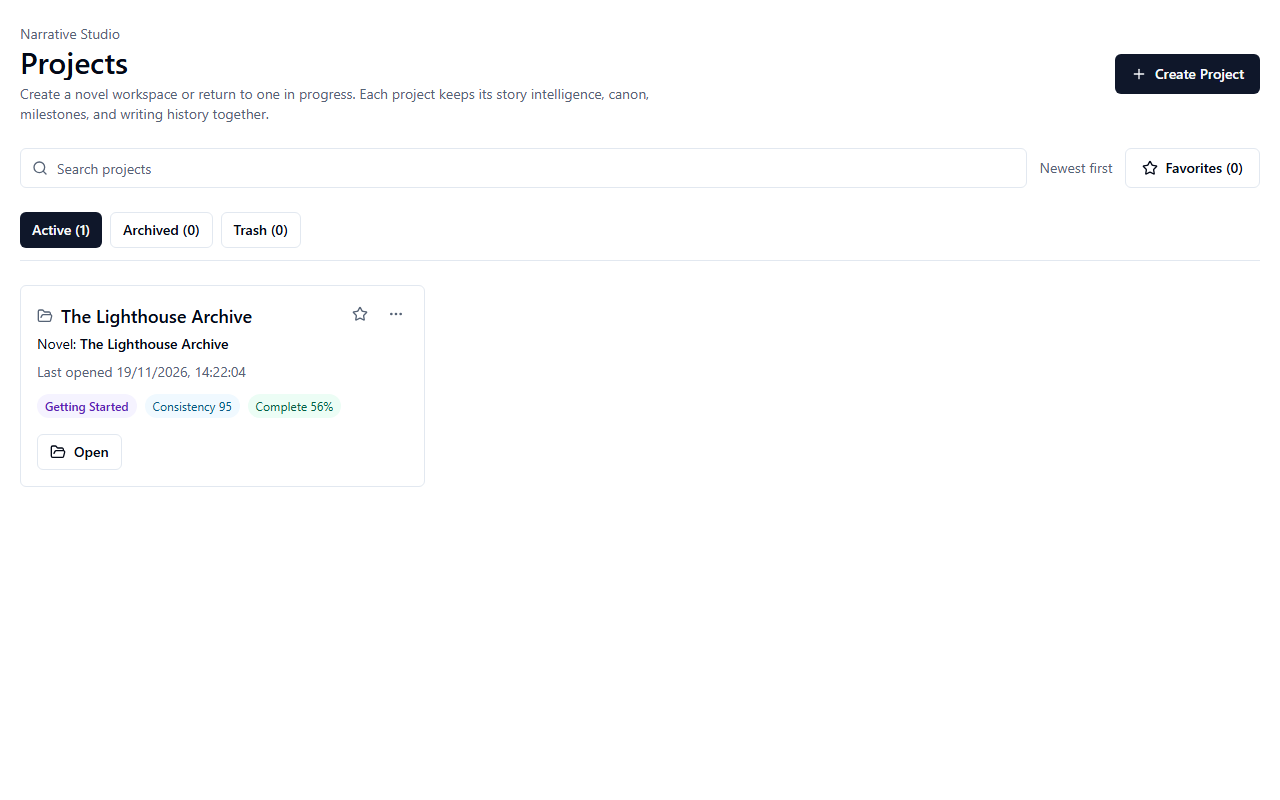
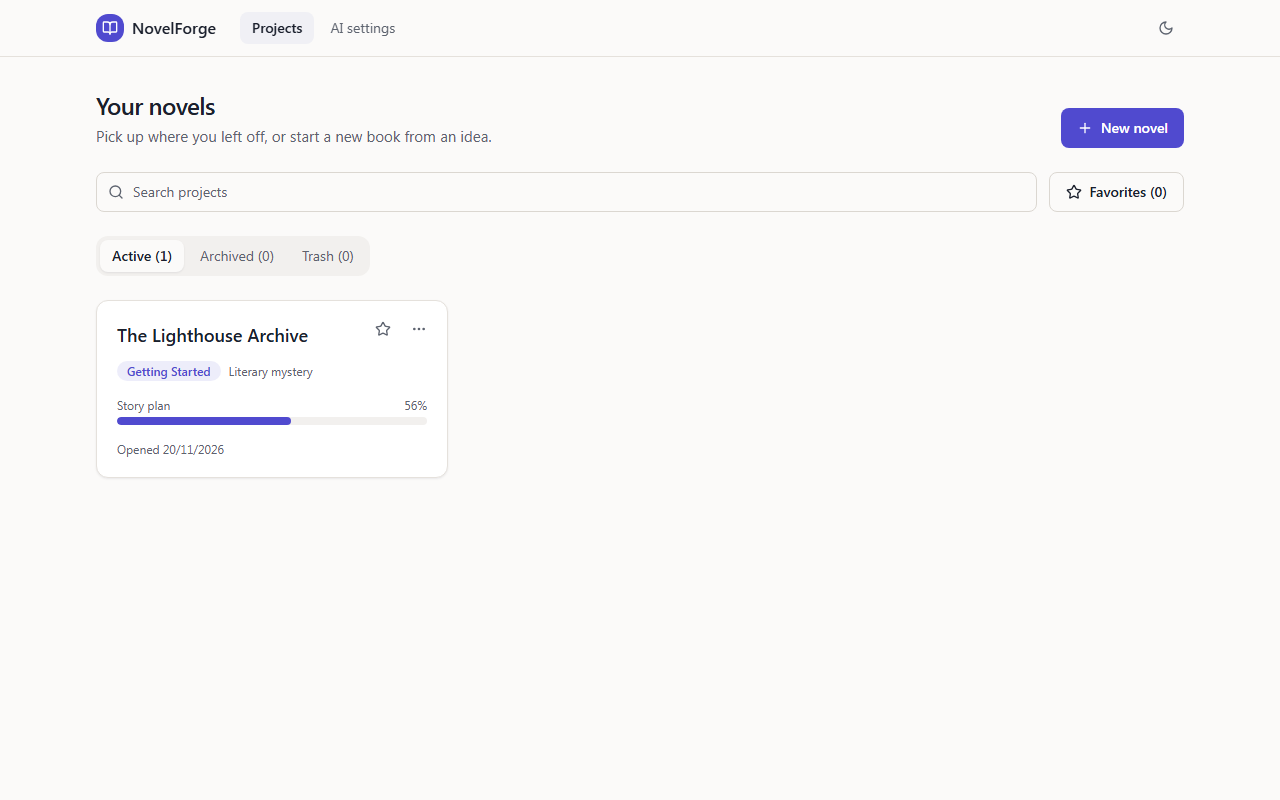
docs: new screenshots, demo GIF and walkthrough for the guided UI
- Screenshots of the redesigned Overview, Plan, Write, Review, Finish,
  AI settings and dark mode (sample project, offline mock AI); the old
  dashboard is kept as before-redesign.png for comparison.
- New demo GIF of the guided path.
- README and HOW_IT_WORKS describe the Idea -> Plan -> Write -> Review ->
  Finish path, and the Playwright numbers are updated (32 pass, 20 skip
  for lack of a real AI provider, 0 fail offline).

diff --git a/README.md b/README.md
@@ -8,9 +8,15 @@ characters, places, promises and mysteries into a **Story Bible**, so later AI
 calls get the facts they need instead of the whole book. The author stays in
 control: AI output is a suggestion until the author approves it.
 
-![Writing workspace](docs/screenshots/04-writing.png)
+![Project overview: next step and progress](docs/screenshots/03-overview.png)
 
 ## What it does
+
+Each project follows one guided path, numbered in the sidebar:
+**Overview → Plan → Write → Review → Finish**. A progress bar at the top
+always shows the book's stage, chapters approved against the plan and the word
+count, and the Overview names the single next step. Specialist tools are
+tucked under "More tools". Light and dark themes are included.
 
 - **Plan the story**: story vision, characters, world rules, themes, plot
   threads, mysteries and a timeline. A "Develop Story" button runs a team of
@@ -35,12 +41,13 @@ control: AI output is a suggestion until the author approves it.
 
 | | |
 | --- | --- |
-| ![Home](docs/screenshots/01-home.png) **Home** with first-run readiness checks | ![Projects](docs/screenshots/02-projects.png) **Project library** |
-| ![Dashboard](docs/screenshots/03-dashboard.png) **Project dashboard** with the next best step | ![Chapter](docs/screenshots/05-chapter.png) **Approved chapter** (versioned) |
-| ![Story Studio](docs/screenshots/06-story-studio.png) **Extracted story facts** waiting for author approval | ![Story Health](docs/screenshots/07-story-health.png) **Story Health** consistency dashboard |
-| ![Characters](docs/screenshots/08-characters.png) **Story Bible: characters** | ![AI settings](docs/screenshots/09-ai-settings.png) **AI providers**: add a key, discover and verify models |
+| ![Home](docs/screenshots/01-home.png) **Home** with a first-run check | ![Novels](docs/screenshots/02-projects.png) **Your novels** |
+| ![Plan](docs/screenshots/04-plan.png) **1 · Plan**: story idea, characters, world, plot | ![Write](docs/screenshots/05-write.png) **2 · Write**: chapters, word counts, approval |
+| ![Facts](docs/screenshots/06-facts.png) **3 · Review**: facts the AI found, waiting for you | ![Story check](docs/screenshots/07-story-check.png) **3 · Review**: story consistency check |
+| ![Finish](docs/screenshots/08-finish.png) **4 · Finish**: assemble and export the book | ![AI settings](docs/screenshots/09-ai-settings.png) **AI settings**: paste a key, pick and test a model |
+| ![Dark mode](docs/screenshots/12-dark-mode.png) **Dark mode** | ![Before the redesign](docs/screenshots/before-redesign.png) **Before the redesign** (for comparison) |
 
-Short walkthrough (about 30 seconds):
+Short walkthrough (about 30 seconds) of the guided path:
 
 ![Demo](docs/screenshots/demo.gif)
 
@@ -50,6 +57,8 @@ with the offline mock AI provider.*
 **With a real model** (OpenRouter `deepseek/deepseek-v4-flash` for writing,
 Gemini Flash-Lite for extraction): a chapter written from a one-line
 instruction, and the story facts extracted from it waiting for the author.
+These two were captured before the redesign, so they show the older layout;
+the AI output is the same.
 
 | | |
 | --- | --- |
@@ -85,7 +94,8 @@ flowchart LR
   database.
 
 A plain-language walkthrough of the main flow and the design decisions is in
-**[docs/HOW_IT_WORKS.md](docs/HOW_IT_WORKS.md)**.
+**[docs/HOW_IT_WORKS.md](docs/HOW_IT_WORKS.md)**; the UX audit behind the
+current layout is in [docs/UX_REDESIGN_PLAN.md](docs/UX_REDESIGN_PLAN.md).
 
 ## Run it locally
 
@@ -121,7 +131,7 @@ On macOS/Linux use `python3 -m venv backend/.venv`,
 picks up `backend/.venv` automatically.
 
 **Real AI**: open **AI Settings**, paste a provider key (for example a free
-Google AI Studio key for Gemini), click *Discover Models*, verify one, and save.
+Google AI Studio key for Gemini), click *Find models*, verify one, and save.
 Set `USE_MOCK_LLM=false` in `backend/.env` to hide the mock provider.
 Interactive API docs are at http://localhost:8000/docs.
 
@@ -133,7 +143,7 @@ double-click `scripts\windows\start-novelforge.cmd`. See
 
 ```powershell
 npm run test:backend    # pytest (~220 tests), uses a throwaway MongoDB database
-npm run test:frontend   # Vitest (87 tests)
+npm run test:frontend   # Vitest (92 tests)
 npm run lint            # ESLint, zero warnings allowed
 npm run build           # Next.js production build + type check
 npm run test:e2e        # Playwright (starts the app itself; ports 3000/8000 must be free)
@@ -144,16 +154,15 @@ the Playwright suite against a MongoDB service container.
 
 ### Known issues
 
-- **Playwright suite**: run offline (mock AI), 17 of 52 specs pass, 10 skip and
-  25 fail. About half of the failing specs look for screens and test IDs from
-  before the workspace UI was redesigned (for example
-  `primary-story-health-dashboard`); the other half need a real AI provider,
-  because the mock cannot produce schema-valid scene prose. With a real
-  provider configured (Gemini Flash-Lite), 13 of the 14 AI specs pass. The one
-  that still fails (`orchestration-v2`) completes its AI run and then looks for
-  a pre-redesign sidebar button. Until the stale specs are updated, the e2e
-  step in CI (which has no API key) is expected to fail. Backend (pytest),
-  frontend (Vitest), lint and build all pass.
+- **Playwright suite**: run offline (mock AI), 32 of 52 tests pass, 20 skip
+  and none fail. The skipped tests need a real AI provider: either they call
+  Gemini directly, or they generate scene prose, which the offline mock cannot
+  write in a schema-valid form. They skip themselves when no real provider key
+  is saved (`e2e/realAi.ts`). The real-provider tests were last run (13 of 14
+  passing) before the UI redesign and have not been re-run against it. On
+  Windows, Playwright can leave its dev server running after the last test;
+  free ports 3000/8000 before the next run. Backend (pytest), frontend
+  (Vitest), lint and build all pass.
 - With a single provider selected ("full" execution mode), planning and scene
   agents have no fallback provider, so an outage of that provider (for example
   Gemini HTTP 503) fails the request after two retries. "Hybrid" mode adds

diff --git a/docs/HOW_IT_WORKS.md b/docs/HOW_IT_WORKS.md
@@ -17,11 +17,34 @@ Bible) in a database, and send the model only the facts that matter for the
 chapter being written.** The author approves what goes into that memory, so
 the AI cannot quietly change the story's facts.
 
+## What the author sees
+
+The project workspace is one guided path, numbered in the sidebar:
+**Overview → 1 Plan → 2 Write → 3 Review → 4 Finish**. Each step is a page
+with tabs for its parts (Plan has Story idea, Characters, World, Plot threads,
+Mysteries, Story arcs, Timeline, Questions). Specialist tools (story rules,
+story map, AI activity, history and so on) sit under a collapsed **More
+tools** group, so a new author never has to learn them.
+
+- A **progress bar** at the top of every project page shows the current stage,
+  chapters approved against the number planned in the story arcs, and the
+  total word count.
+- **Overview** shows one "next step" card. `computeNextStep()` in
+  `frontend/lib/bookProgress.ts` picks it in a fixed order: answer blocking
+  questions, build the plan, read chapters waiting for approval, confirm new
+  facts, write the next chapter, then assemble and export the book.
+- Every step page ends with a "Next: ..." link to the following step.
+- The navigation model lives in `frontend/lib/workspaceNav.ts`. Every older
+  section id (`?section=canon`, `?section=drafting`, ...) still resolves to a
+  tab or a More-tools page, so links and the Ctrl+K palette keep working.
+
+The audit behind this layout is in [UX_REDESIGN_PLAN.md](UX_REDESIGN_PLAN.md).
+
 ## The main flow, step by step
 
 ```mermaid
 flowchart TD
-    A[Author creates a project<br/>title, idea, genre, tone] --> B[Plan<br/>Develop Story agents fill characters, world, arcs]
+    A[Author creates a project<br/>title, idea, genre, tone] --> B[Plan<br/>planning agents suggest characters, world, arcs]
     B --> C[Write a chapter<br/>instruction + word range]
     C --> D[Context builder<br/>Story Bible + relevant past chapters]
     D --> E[Provider gateway<br/>calls the chosen AI model]
@@ -96,8 +119,8 @@ fails or returns nothing, a simple rule-based extractor is used instead, so the
 step never blocks the author.
 
 `story_knowledge_projection_service.py` saves those candidates with
-`authority_status: "candidate"`. They show up in Story Studio as
-*Suggestions for your story* with **Confirm** / **Not a story fact** buttons.
+`authority_status: "candidate"`. They show up under **Review → Facts to
+confirm** with **Confirm** / **Not a story fact** buttons.
 Only confirmed facts become part of the Story Bible and are sent to the AI
 next time. This is the "human in the loop" part of the design.
 
@@ -215,6 +238,15 @@ another provider; lists are now accepted where the caller expects one.
 manuscript. (4) Writing calls were traced without a project ID, so
 per-project cost reports left them out. Each fix has a regression test that
 runs on the mock.
+
+**Why was the interface redesigned?**
+The first version exposed every internal feature at once: 32 sections in a
+toolbox, three stacked guidance banners and a floating assistant. Authors
+could not tell where they were or what to do next. The redesign groups the
+same features into the five steps of writing a book, adds a progress bar and
+one "next step" card, and uses writers' words ("Facts to confirm", "Story
+check", "Book & export") instead of system words ("canon", "audit",
+"manuscript governance"). No backend API changed.
 
 **Why MongoDB and not PostgreSQL?**
 The data is document-shaped and varies a lot between record types, and the API
